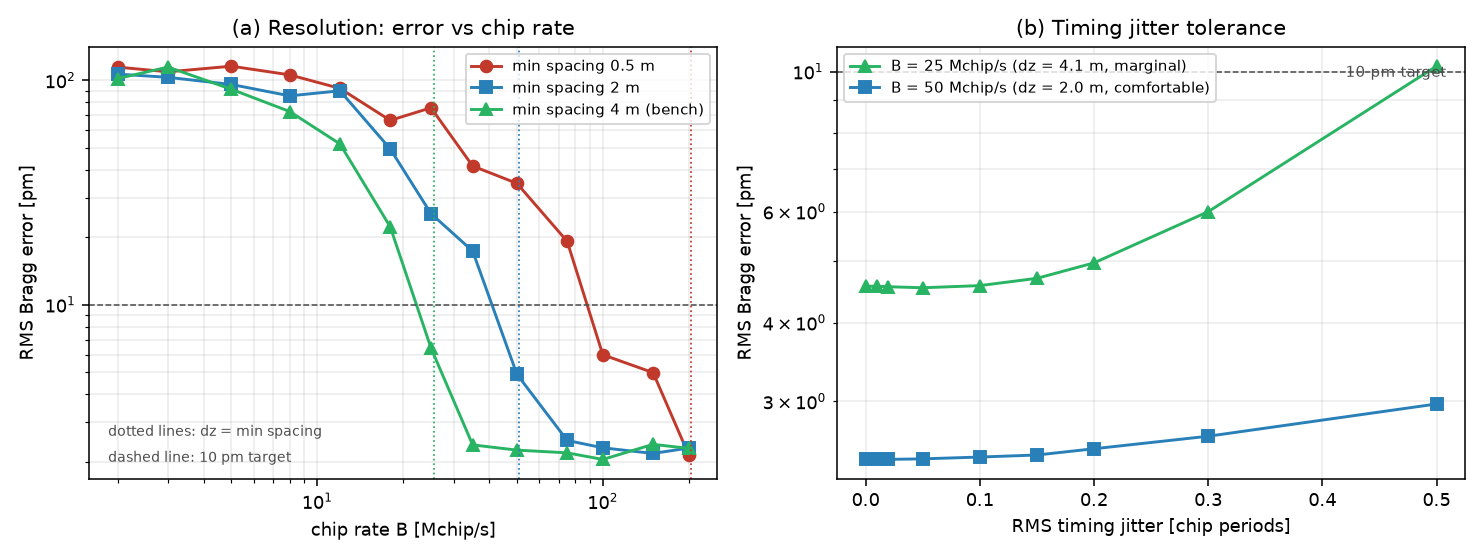
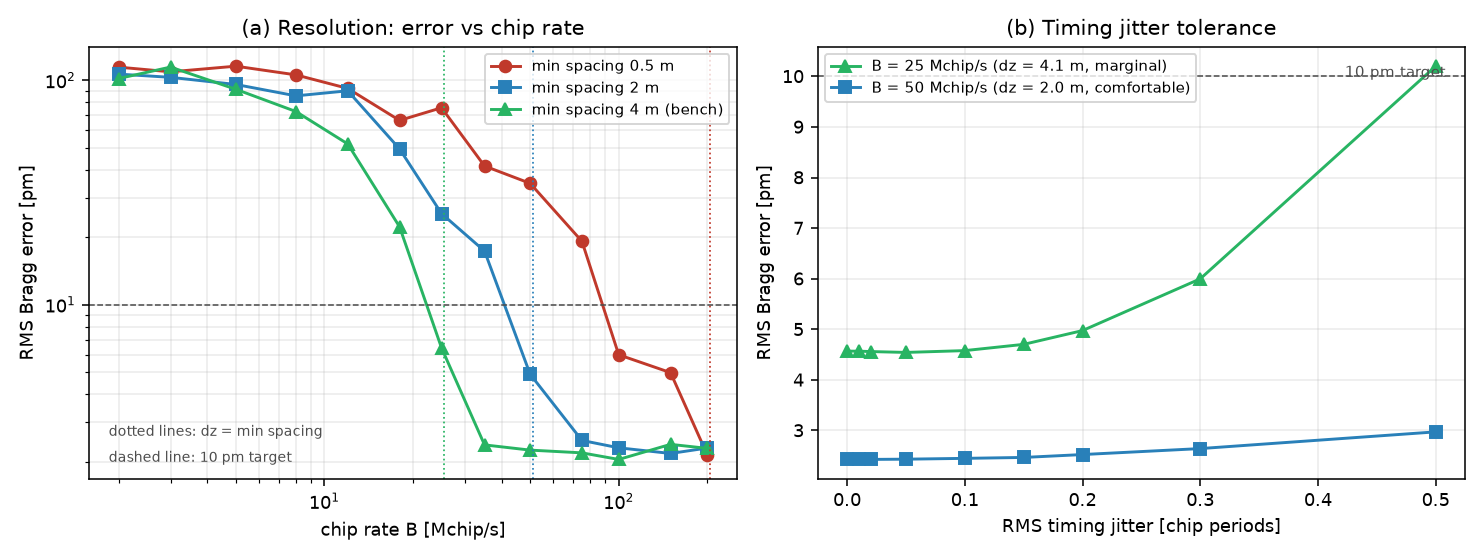
s16: rysunki poglądowe (zasada dzialania, mechanizmy bledu); s13: liniowa os w panelu jitteru
s16_principle.py generuje dwie figury objasniajace do artykulu: uklad optyczny
z mapa opoznienie-dlugosc fali (co naprawde zwraca korelator) oraz trzy panele
mechanizmow bledu (cieniowanie, ghosty z kontrastem rozstawu, przeciek kodowy).
Wszystkie panele liczone tym samym modelem co wyniki, nie rysowane recznie.

diff --git a/python_selfcal_cdm/s16_principle.py b/python_selfcal_cdm/s16_principle.py
@@ -1,0 +1,249 @@
+"""s16_principle.py - the two explanatory figures of the paper.
+
+Figure 1, principle: the optical layout on the left and, on the right, what the
+correlator actually returns. The despread output is a two-dimensional map, delay
+bin against wavelength: the code marks WHICH wavelength was launched, the delay
+marks WHICH grating sent the light back. A horizontal cut through that map is one
+grating's reflection spectrum, and its peak is the measurement.
+
+Figure 2, mechanisms: the three array effects that this study quantifies, each
+drawn from the same model used for the results, not sketched by hand.
+  (a) spectral shadowing: the upstream gratings punch a notch into the light that
+      reaches a downstream grating, and when they are detuned the notch is
+      asymmetric across its line, so the fitted peak moves;
+  (b) multiple reflections: a third-order path returns at tau_a - tau_b + tau_c,
+      which for uniform spacing is always another occupied bin and for randomised
+      spacing usually is not;
+  (c) code leakage: the autocorrelation side lobe adds a scaled copy of every
+      other grating's spectrum as a broad background under the wanted line.
+"""
+import numpy as np, matplotlib; matplotlib.use('Agg')
+import matplotlib.pyplot as plt
+from matplotlib.patches import FancyBboxPatch, FancyArrowPatch, Rectangle, Circle
+import warnings; warnings.filterwarnings('ignore')
+import common as C
+
+PM = C.PM_PER_GHZ
+F = C.FBG_FWHM_GHZ
+SIG = F / 2.35482
+NCH = 127
+MSEQ = 1.0 - 2.0 * C._mls01(7)
+ACORR = C.periodic_xcorr(MSEQ, MSEQ)
+
+plt.rcParams.update({'font.size': 8.5})
+
+# ===========================================================================
+# FIGURE 1: principle
+# ===========================================================================
+fig = plt.figure(figsize=(10.6, 3.9))
+gs = fig.add_gridspec(1, 2, width_ratios=[1.15, 1.0], wspace=0.28)
+
+# --- (a) optical layout ----------------------------------------------------
+ax = fig.add_subplot(gs[0, 0]); ax.axis('off')
+ax.set_xlim(0, 10.4); ax.set_ylim(0, 6.2)
+
+
+def box(x, y, w, h, t, fc='#eaf1fb', fs=7.6):
+    ax.add_patch(FancyBboxPatch((x, y), w, h,
+                                boxstyle='round,pad=0.05,rounding_size=0.12',
+                                fc=fc, ec='#1f4e79', lw=1.2))
+    ax.text(x + w / 2, y + h / 2, t, ha='center', va='center', fontsize=fs)
+
+
+def arrow(x1, y1, x2, y2, col='#333', lw=1.2):
+    ax.add_patch(FancyArrowPatch((x1, y1), (x2, y2), arrowstyle='-|>',
+                                 mutation_scale=10, lw=lw, color=col))
+
+
+box(0.15, 4.20, 2.55, 1.35, 'swept VCSEL,\ncode-modulated', fs=7.4)
+# code waveform inside the source box area
+tt = np.linspace(0.35, 2.35, 300)
+bits = MSEQ[:16]
+cw = np.repeat(bits, len(tt) // 16 + 1)[:len(tt)]
+ax.plot(tt, 3.55 + 0.18 * cw, color='#1f4e79', lw=0.9)
+ax.text(1.35, 3.15, 'code c(t)', ha='center', fontsize=7, color='#1f4e79')
+
+ax.add_patch(Circle((3.5, 4.85), 0.42, fc='#fdf3e7', ec='#1f4e79', lw=1.2))
+ax.text(3.5, 4.85, 'circ', ha='center', va='center', fontsize=7)
+arrow(2.72, 4.85, 3.05, 4.85)
+
+# fiber with gratings at irregular positions
+ax.plot([3.95, 10.2], [4.85, 4.85], color='#555', lw=1.6)
+zpos = [4.7, 5.9, 7.6, 8.5, 9.7]
+for i, z in enumerate(zpos):
+    ax.add_patch(Rectangle((z - 0.16, 4.62), 0.32, 0.46, fc='#c0392b',
+                           ec='#7b241c', hatch='///', lw=0.8))
+    ax.text(z, 5.30, r'$z_%d$' % (i + 1), ha='center', fontsize=7)
+ax.annotate('', xy=(4.7, 4.35), xytext=(5.9, 4.35),
+            arrowprops=dict(arrowstyle='<->', lw=0.8, color='#555'))
+ax.annotate('', xy=(7.6, 4.35), xytext=(8.5, 4.35),
+            arrowprops=dict(arrowstyle='<->', lw=0.8, color='#555'))
+ax.text(7.2, 3.95, 'randomised spacing (Section IV-B)', ha='center', fontsize=7,
+        color='#555')
+ax.text(7.1, 5.75, 'FBG array: same nominal wavelength,\nseparated only by delay',
+        ha='center', fontsize=7.4)
+
+# return path
+arrow(3.5, 4.43, 3.5, 3.0)
+box(2.75, 2.05, 1.5, 0.9, 'InGaAs\nAPD')
+arrow(4.25, 2.5, 5.05, 2.5)
+box(5.00, 2.05, 2.45, 0.9, 'equivalent-time\nsampling', fs=7.2)
+arrow(7.45, 2.5, 8.15, 2.5)
+box(8.15, 2.05, 2.2, 0.9, 'matched-filter\ncorrelator', fs=7.2)
+arrow(9.25, 2.05, 9.25, 1.35)
+box(6.6, 0.35, 3.7, 1.0, 'delay-wavelength map  ->  peak fit  ->  $\\lambda_B$',
+    fc='#eafaf0')
+
+ax.text(0.1, 1.3, 'one code on the fiber\nat a time: the sweep\nvisits wavelengths\n'
+                  'in sequence, so gratings\nare separated by the\nAUTOCORRELATION\n'
+                  'side lobe', fontsize=7.2, va='center', color='#1f4e79')
+ax.set_title('(a) Coded interrogation of a grating array', fontsize=9)
+
+# --- (b) despread map ------------------------------------------------------
+ax2 = fig.add_subplot(gs[0, 1])
+M = 96
+nu = np.linspace(-2.6 * F, 2.6 * F, M)
+rng = np.random.default_rng(2)
+K = 5
+bins = np.array([11, 27, 46, 79, 103])
+nub = np.array([-18.0, 9.0, -4.0, 21.0, -11.0])
+R = 0.05
+shapes = np.exp(-0.5 * ((nu[None, :] - nub[:, None]) / SIG) ** 2)
+tcum = np.ones((K, M))
+for k in range(1, K):
+    tcum[k] = tcum[k - 1] * (1.0 - R * shapes[k - 1]) ** 2
+prim = R * shapes * tcum
+grid = np.zeros((NCH, M))
+grid[bins] = prim
+W = ACORR[(np.arange(NCH)[:, None] - bins[None, :]) % NCH]
+grid = grid + W @ prim
+im = ax2.imshow(grid.T, aspect='auto', origin='lower', cmap='viridis',
+                extent=[0, NCH, nu[0] * PM / 1000.0, nu[-1] * PM / 1000.0])
+for k in range(K):
+    ax2.plot(bins[k], nub[k] * PM / 1000.0, 'o', mfc='none', mec='w', ms=9, mew=1.2)
+    ax2.text(bins[k] + 2, nub[k] * PM / 1000.0 + 0.06, 'FBG %d' % (k + 1),
+             color='w', fontsize=7)
+ax2.set_xlabel('delay bin  [chip]  ->  grating position')
+ax2.set_ylabel('wavelength offset [nm]')
+ax2.set_title('(b) What the correlator returns', fontsize=9)
+cb = fig.colorbar(im, ax=ax2, pad=0.02); cb.set_label('despread reflectance', fontsize=7.5)
+cb.ax.tick_params(labelsize=7)
+ax2.text(0.98, 0.04, 'a horizontal cut is one grating spectrum',
+         transform=ax2.transAxes, ha='right', fontsize=7, color='w')
+fig.savefig('figs/fig_s16_principle.png', dpi=150, bbox_inches='tight')
+
+# ===========================================================================
+# FIGURE 2: error mechanisms
+# ===========================================================================
+fig2, ax = plt.subplots(1, 3, figsize=(10.6, 3.5))
+
+# --- (a) spectral shadowing ------------------------------------------------
+g = np.linspace(-3.0 * F, 3.0 * F, 900)
+lam = g * PM / 1000.0
+up = np.exp(-0.5 * ((g + 14.0) / SIG) ** 2)          # upstream grating, detuned
+down = np.exp(-0.5 * (g / SIG) ** 2)                 # grating of interest
+Rs = 0.25                                            # exaggerated for legibility
+trans = (1.0 - Rs * up) ** 2
+obs = down * trans
+p_clean = C.gauss_fit_peak(g, down) * PM
+p_shad = C.gauss_fit_peak(g, obs) * PM
+ax[0].plot(lam, trans, color='#7d3c98', lw=1.2, label='upstream transmission')
+ax[0].plot(lam, down, color='#2980b9', lw=1.4, label='true line')
+ax[0].plot(lam, obs / obs.max(), color='#c0392b', lw=1.4, label='what is measured')
+ax[0].axvline(p_clean / 1000.0, color='#2980b9', ls=':', lw=1.0)
+ax[0].axvline(p_shad / 1000.0, color='#c0392b', ls=':', lw=1.0)
+ax[0].annotate('', xy=(p_shad / 1000.0, 1.06), xytext=(p_clean / 1000.0, 1.06),
+               arrowprops=dict(arrowstyle='<|-', color='k', lw=1.0))
+ax[0].text(0.32, 1.11, 'peak pulled %.0f pm' % abs(p_shad - p_clean),
+           ha='center', fontsize=7)
+ax[0].set_xlim(-0.55, 0.55); ax[0].set_ylim(0, 1.25)
+ax[0].set_xlabel('wavelength offset [nm]'); ax[0].set_ylabel('normalised')
+ax[0].set_title('(a) Spectral shadowing', fontsize=9)
+ax[0].legend(fontsize=6.6, loc='upper left')
+
+# --- (b) ghost delays ------------------------------------------------------
+axb = ax[1]
+axb.set_xlim(0, 10); axb.set_ylim(-1.6, 10); axb.axis('off')
+axb.plot([0.6, 9.4], [8.6, 8.6], color='#555', lw=1.4)
+gz = [2.0, 4.4, 7.4]
+for z, nm in zip(gz, ['b', 'a', 'c']):
+    axb.add_patch(Rectangle((z - 0.16, 8.35), 0.32, 0.5, fc='#c0392b',
+                            ec='#7b241c', hatch='///', lw=0.7))
+    axb.text(z, 9.15, nm, ha='center', fontsize=8)
+axb.annotate('', xy=(4.4, 7.9), xytext=(0.7, 7.9),
+             arrowprops=dict(arrowstyle='-|>', color='#28b463', lw=1.1))
+axb.annotate('', xy=(2.0, 7.35), xytext=(4.4, 7.35),
+             arrowprops=dict(arrowstyle='-|>', color='#28b463', lw=1.1))
+axb.annotate('', xy=(7.4, 6.8), xytext=(2.0, 6.8),
+             arrowprops=dict(arrowstyle='-|>', color='#28b463', lw=1.1))
+axb.annotate('', xy=(0.7, 6.25), xytext=(7.4, 6.25),
+             arrowprops=dict(arrowstyle='-|>', color='#28b463', lw=1.1))
+axb.text(5.0, 5.55, r'apparent delay $\tau_a-\tau_b+\tau_c$,  power $\propto R^3$',
+         ha='center', fontsize=7.6)
+
+Kg = 10
+bu = 3 + 7 * np.arange(Kg)
+rng2 = np.random.default_rng(11)
+br = np.sort(rng2.choice(np.arange(1, 90), size=Kg, replace=False))
+
+
+def ghost_bins(b):
+    out = []
+    for a in range(len(b)):
+        for bb in range(len(b)):
+            for c in range(len(b)):
+                if bb < a and bb < c:
+                    gb = b[a] - b[bb] + b[c]
+                    if b.min() <= gb <= b.max():
+                        out.append(gb)
+    return np.array(out)
+
+
+for row, (b, gbs, ttl, col) in enumerate(
+        [(bu, ghost_bins(bu), 'uniform spacing', '#c0392b'),
+         (br, ghost_bins(br), 'randomised spacing', '#2980b9')]):
+    y0 = 3.3 - 2.6 * row
+    axb.plot([0.6, 9.4], [y0, y0], color='0.8', lw=0.8)
+    xs = 0.6 + 8.8 * (b - 0) / 90.0
+    axb.plot(xs, [y0] * len(b), 'v', color=col, ms=6, label='gratings' if row == 0 else None)
+    hit = np.array([g in b for g in gbs])
+    xg = 0.6 + 8.8 * gbs / 90.0
+    axb.plot(xg[hit], [y0 + 0.55] * hit.sum(), 'x', color='#c0392b', ms=4.5, mew=1.0)
+    axb.plot(xg[~hit], [y0 + 0.55] * (~hit).sum(), '.', color='0.6', ms=3)
+    axb.text(0.6, y0 - 0.75, '%s: %d%% of ghosts land on a grating bin'
+             % (ttl, round(100 * hit.mean())), fontsize=7.2, color=col)
+axb.text(9.4, 4.80, 'x  lands on a grating bin', fontsize=6.6, ha='right', color='0.35')
+axb.text(9.4, 4.40, '.  lands in an empty bin', fontsize=6.6, ha='right', color='0.35')
+axb.text(5.0, -1.15, 'delay bin', ha='center', fontsize=7.2, color='0.35')
+axb.set_title('(b) Multiple reflections and spacing', fontsize=9)
+
+# --- (c) code leakage ------------------------------------------------------
+Mc = 96
+nuc = np.linspace(-2.6 * F, 2.6 * F, Mc)
+rng3 = np.random.default_rng(7)
+Kc = 24
+nubs = rng3.uniform(-25, 25, Kc)
+Ac = 0.05 * np.exp(-0.5 * ((nuc[None, :] - nubs[:, None]) / SIG) ** 2)
+wanted = Ac[0]
+leak = (-1.0 / NCH) * (Ac[1:].sum(axis=0))
+ax[2].plot(nuc * PM / 1000.0, wanted, color='#2980b9', lw=1.4, label='wanted grating')
+ax[2].plot(nuc * PM / 1000.0, np.abs(leak), color='0.45', lw=1.2,
+           label=r'|leakage|, side lobe $1/N$')
+ax[2].plot(nuc * PM / 1000.0, np.abs((-17.0 / NCH) * (Ac[1:].sum(axis=0))),
+           color='#c0392b', lw=1.2, ls='--', label=r'|leakage|, Gold $17/N$')
+ax[2].set_yscale('log'); ax[2].set_ylim(1e-5, 0.2)
+ax[2].set_xlabel('wavelength offset [nm]'); ax[2].set_ylabel('despread reflectance')
+ax[2].set_title('(c) Code leakage, K = %d' % Kc, fontsize=9)
+ax[2].legend(fontsize=6.6, loc='lower center')
+ax[2].grid(True, which='both', alpha=0.2)
+
+fig2.tight_layout()
+fig2.savefig('figs/fig_s16_mechanisms.png', dpi=150, bbox_inches='tight')
+
+print('shadowing demo: peak pulled by %.1f pm (R = %.2f, upstream detuned %.0f pm)'
+      % (abs(p_shad - p_clean), Rs, 14.0 * PM))
+print('ghost bins, uniform: %d in span, %.0f%% on a grating bin'
+      % (len(ghost_bins(bu)), 100 * np.mean([g in bu for g in ghost_bins(bu)])))
+print('ghost bins, random : %d in span, %.0f%% on a grating bin'
+      % (len(ghost_bins(br)), 100 * np.mean([g in br for g in ghost_bins(br)])))
+print('saved figs/fig_s16_principle.png, figs/fig_s16_mechanisms.png')

diff --git a/python_selfcal_cdm/s13_chiprate.py b/python_selfcal_cdm/s13_chiprate.py
@@ -175,9 +175,9 @@ ax[0].set_ylabel('RMS Bragg error [pm]')
 ax[0].set_title('(a) Resolution: error vs chip rate')
 ax[0].legend(fontsize=7.5, loc='upper right'); ax[0].grid(True, which='both', alpha=0.25)
 
-ax[1].semilogy(jit, np.maximum(e_jit_25, 0.05), '^-', color='#28b463',
+ax[1].plot(jit, np.maximum(e_jit_25, 0.05), '^-', color='#28b463',
                label='B = 25 Mchip/s (dz = 4.1 m, marginal)')
-ax[1].semilogy(jit, np.maximum(e_jit_50, 0.05), 's-', color='#2980b9',
+ax[1].plot(jit, np.maximum(e_jit_50, 0.05), 's-', color='#2980b9',
                label='B = 50 Mchip/s (dz = 2.0 m, comfortable)')
 ax[1].axhline(10.0, color='0.3', ls='--', lw=0.8)
 ax[1].text(0.97, 0.93, '10 pm target', transform=ax[1].transAxes, fontsize=7.5,
